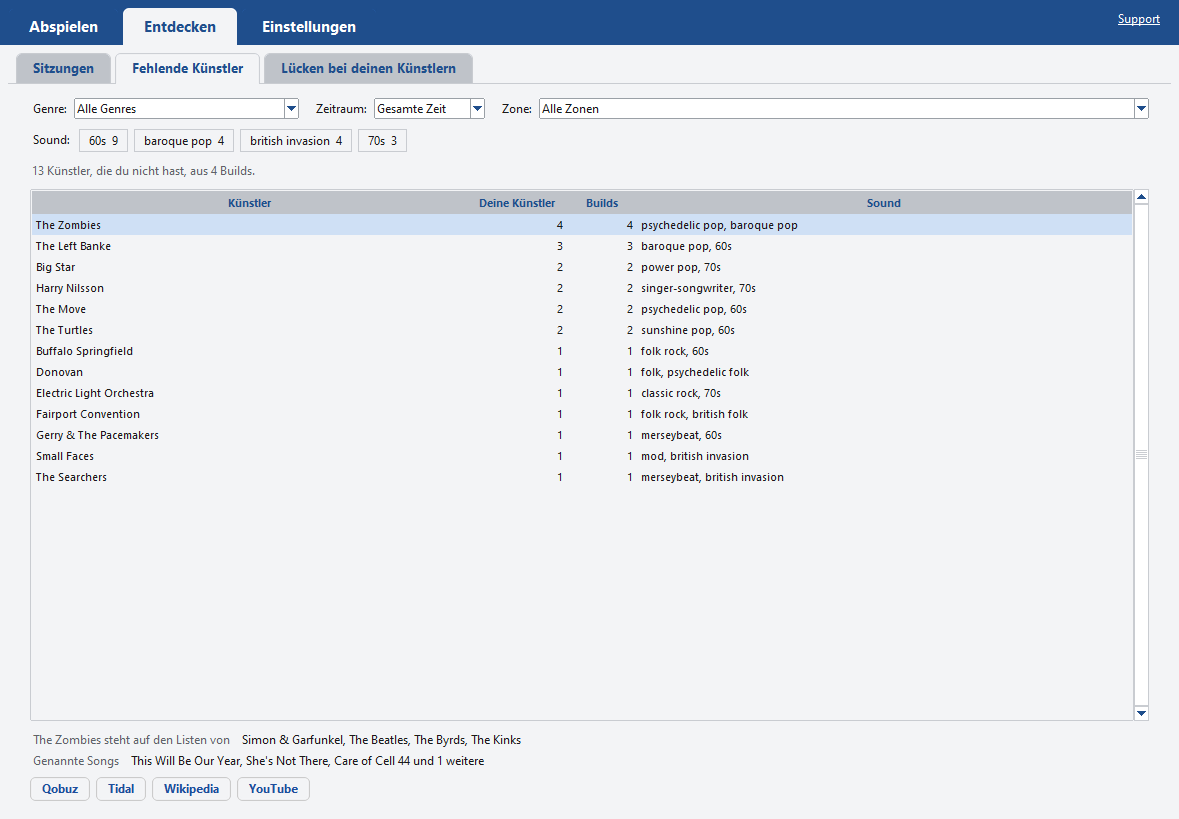
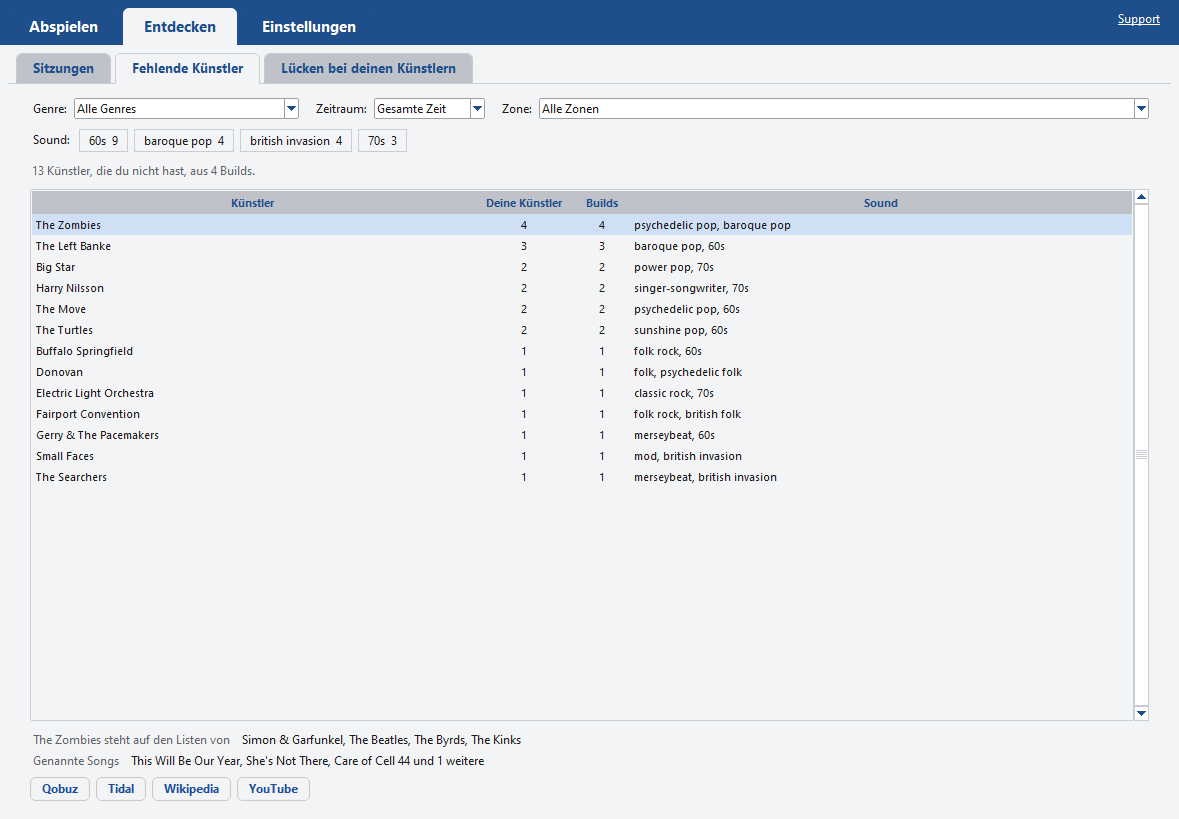
Discover's number columns fit their titles at any scaling, numbers centred
On a screen scaled up, Your Artists read "Your /" and Builds "Buil":
the columns had fixed pixel widths. Each is now measured from its title
in the heading font (and its widest number), on both artist tabs.

diff --git a/artists_gui.py b/artists_gui.py
@@ -16,6 +16,7 @@ import os
 import queue
 import threading
 import tkinter as tk
+import tkinter.font as tkfont
 import urllib.parse
 import webbrowser
 from tkinter import ttk
@@ -30,6 +31,7 @@ ALL_GENRES = N_("All genres")
 ALL_ZONES = N_("All zones")
 NOT_KNOWN = N_("Not known")
 SOUNDS_SHOWN = 12   # chips before "and N more"
+PAD = 24   # room around a column's title, for the edges and the sort arrow
 
 COLUMNS = {   # view -> [(column, heading, width, numbers)]
     "Missing Artists": [("artist", N_("Artist"), 200, False), ("yours", N_("Your Artists"), 100, True),
@@ -37,6 +39,15 @@ COLUMNS = {   # view -> [(column, heading, width, numbers)]
     "Gaps in Your Artists": [("artist", N_("Artist"), 200, False), ("matched", N_("Matched"), 80, True),
                              ("missed", N_("Missed"), 80, True), ("songs", N_("Songs You Don't Have"), 320, False)],
 }
+
+
+def number_width(title, values, head, cell):
+    """
+    A number column's width (Ben, 11 Nov 2026): its title in the heading font or its widest number, whichever
+    is wider, plus room either side. Measured with the fonts on screen, so it holds at any display scaling,
+    table text size or language: fixed pixel widths cut "Your Artists" to "Your /" on a screen scaled up.
+    """
+    return max([head(title)] + [cell(str(v)) for v in values]) + PAD
 
 
 class Shared:
@@ -131,10 +142,30 @@ class ArtistsView(tk.Frame):
         self.tree.configure(columns=[c for c, _h, _w, _n in cols])
         size = getattr(engine, "TABLE_FONT_SIZE", 9)
         self._cell_font = ("Segoe UI", size)
+        self._head_measure = tkfont.Font(self, family="Segoe UI", size=size, weight="bold").measure
+        self._cell_measure = tkfont.Font(self, family="Segoe UI", size=size).measure
         self.tree.tag_configure("cell", font=self._cell_font)
         for c, heading, width, numbers in cols:
-            self.tree.heading(c, text=t(heading), command=lambda cc=c: self._sort_by(cc))
-            self.tree.column(c, width=width, anchor="e" if numbers else "w", stretch=not numbers)
+            title = t(heading)
+            self.tree.heading(c, text=title, command=lambda cc=c: self._sort_by(cc))
+            fits = self._head_measure(title) + PAD
+            if numbers:   # as wide as the title needs, the number centred under it (Ben, 11 Nov 2026)
+                self.tree.column(c, width=fits, minwidth=fits, anchor="center", stretch=False)
+            else:         # the text columns share the rest, never narrower than their title
+                self.tree.column(c, width=max(width, fits), minwidth=fits, anchor="w", stretch=True)
+
+    def _fit_numbers(self, rows):
+        """Widens a number column if one of its numbers is wider than its title."""
+        for n, (c, heading, _w, numbers) in enumerate(COLUMNS[self.kind]):
+            if numbers:
+                fits = number_width(t(heading), [r[n] for r in rows], self._head_measure, self._cell_measure)
+                self.tree.column(c, width=fits, minwidth=fits)
+
+    def restyle(self):
+        """A new table text size (Sessions' A- and A+): measured again and the rows put back."""
+        self._set_columns()
+        if self._items:
+            self._populate()
 
     # --- choices -----------------------------------------------------------
 
@@ -370,8 +401,10 @@ class ArtistsView(tk.Frame):
 
     def _populate(self):
         self.tree.delete(*self.tree.get_children())
-        for i, item in enumerate(self._items):
-            self.tree.insert("", "end", iid=str(i), values=self._cells(item), tags=("cell",))
+        rows = [self._cells(item) for item in self._items]
+        for i, row in enumerate(rows):
+            self.tree.insert("", "end", iid=str(i), values=row, tags=("cell",))
+        self._fit_numbers(rows)
         self._open_row()
 
     def _sort_value(self, item, col):

diff --git a/tests/test_discover_artist_tabs.py b/tests/test_discover_artist_tabs.py
@@ -127,3 +127,29 @@ def test_genre_is_greyed_while_radio_rests(app, ui):
     assert str(s.genre_menu.cget("state")) == "disabled"
     assert "resting" in s._genre_why
     assert not ui.errors, ui.errors[0]
+
+
+def test_column_titles_fit_on_a_screen_scaled_up(app, ui):
+    """Ben, 11 Nov 2026: at his display scaling "Your Artists" read "Your /" and "Builds" "Buil"; the number
+    columns had fixed pixel widths. Now each is measured from its title in the heading font, numbers centred."""
+    import tkinter.font as tkfont
+    history(app)
+    stations_meta(app)
+    old = float(ui.root.tk.call("tk", "scaling"))
+    ui.root.tk.call("tk", "scaling", old * 2)
+    try:
+        for kind in ("Missing Artists", "Gaps in Your Artists"):
+            s = artist_tab(ui, kind)
+            s.restyle()
+            ui.pump(0.2)
+            size = getattr(__import__("engine"), "TABLE_FONT_SIZE", 9)
+            head = tkfont.Font(family="Segoe UI", size=size, weight="bold")
+            for c in s.tree.cget("columns"):
+                title = s.tree.heading(c, "text")
+                assert int(s.tree.column(c, "minwidth")) >= head.measure(title), (kind, title)
+                assert int(s.tree.column(c, "width")) >= head.measure(title), (kind, title)
+            numbers = [c for c in s.tree.cget("columns") if c not in ("artist", "sound", "songs")]
+            assert {str(s.tree.column(c, "anchor")) for c in numbers} == {"center"}, kind
+    finally:
+        ui.root.tk.call("tk", "scaling", old)
+    assert not ui.errors, ui.errors[0]

diff --git a/tests/test_discover_stats.py b/tests/test_discover_stats.py
@@ -232,3 +232,12 @@ def test_no_lastfm_key_asks_nothing(app, monkeypatch):
     monkeypatch.setattr(app.engine, "LASTFM_KEY", "")
     before = len(app.web.calls)
     assert ds.fetch_tags(["The Kinks"]) == 0 and len(app.web.calls) == before
+
+
+def test_a_number_column_is_as_wide_as_its_title_or_its_widest_number(app):
+    """Ben, 11 Nov 2026: on a screen scaled up, "Your Artists" read "Your /" in a column of fixed width."""
+    import artists_gui
+    head = lambda text: 20 * len(text)    # a bold font on a screen scaled to double
+    cell = lambda text: 10 * len(text)
+    assert artists_gui.number_width("Your Artists", [7, 10], head, cell) == 240 + artists_gui.PAD
+    assert artists_gui.number_width("Gefunden", [1234567890123456789], head, cell) == 190 + artists_gui.PAD

diff --git a/discover_gui.py b/discover_gui.py
@@ -135,6 +135,8 @@ class DiscoverTab(tk.Frame):
         self._apply_table_font()
         if getattr(self, "_rows", None) is not None:
             self._populate()   # re-insert rows so the new tag font takes effect
+        for page in (self.missing_page, self.gaps_page):
+            page.restyle()     # their columns are measured from the font
         try:
             from settings_gui import write_env
             write_env({"TABLE_FONT_SIZE": str(size)})
